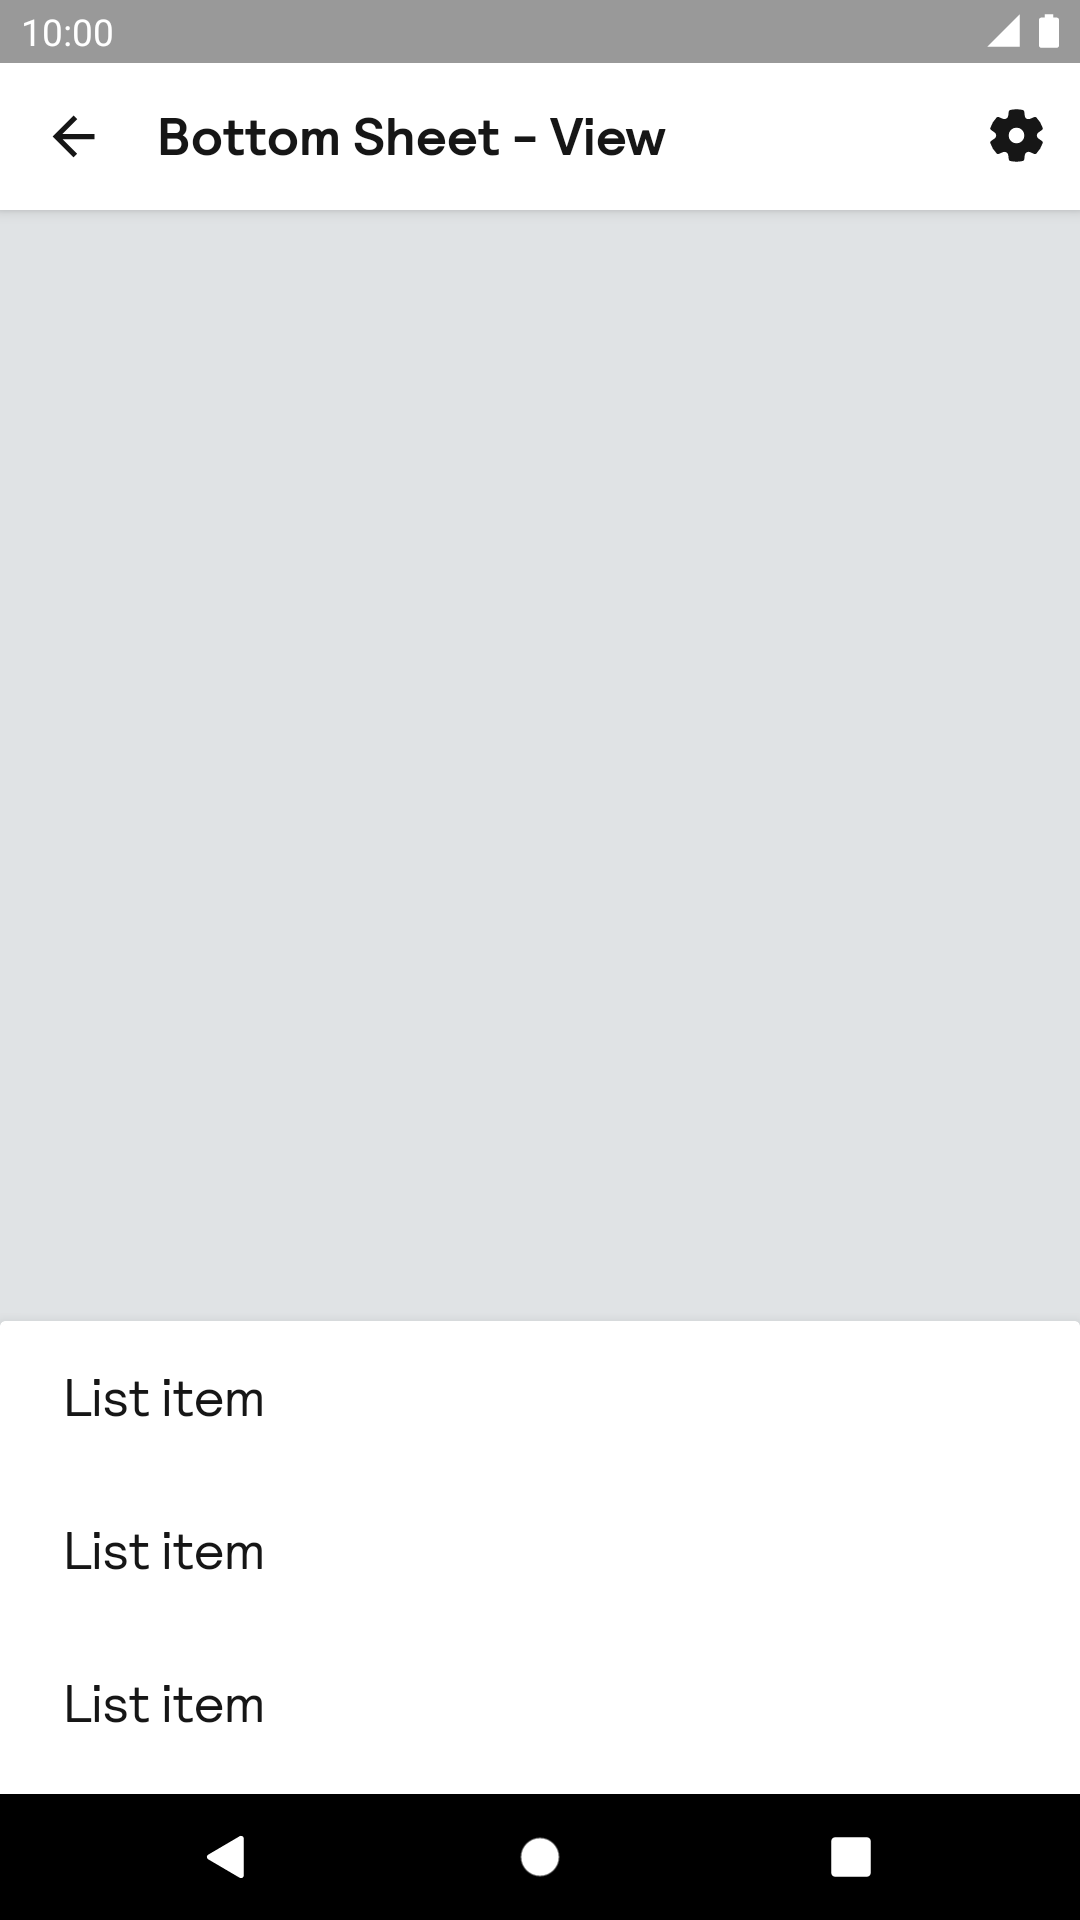
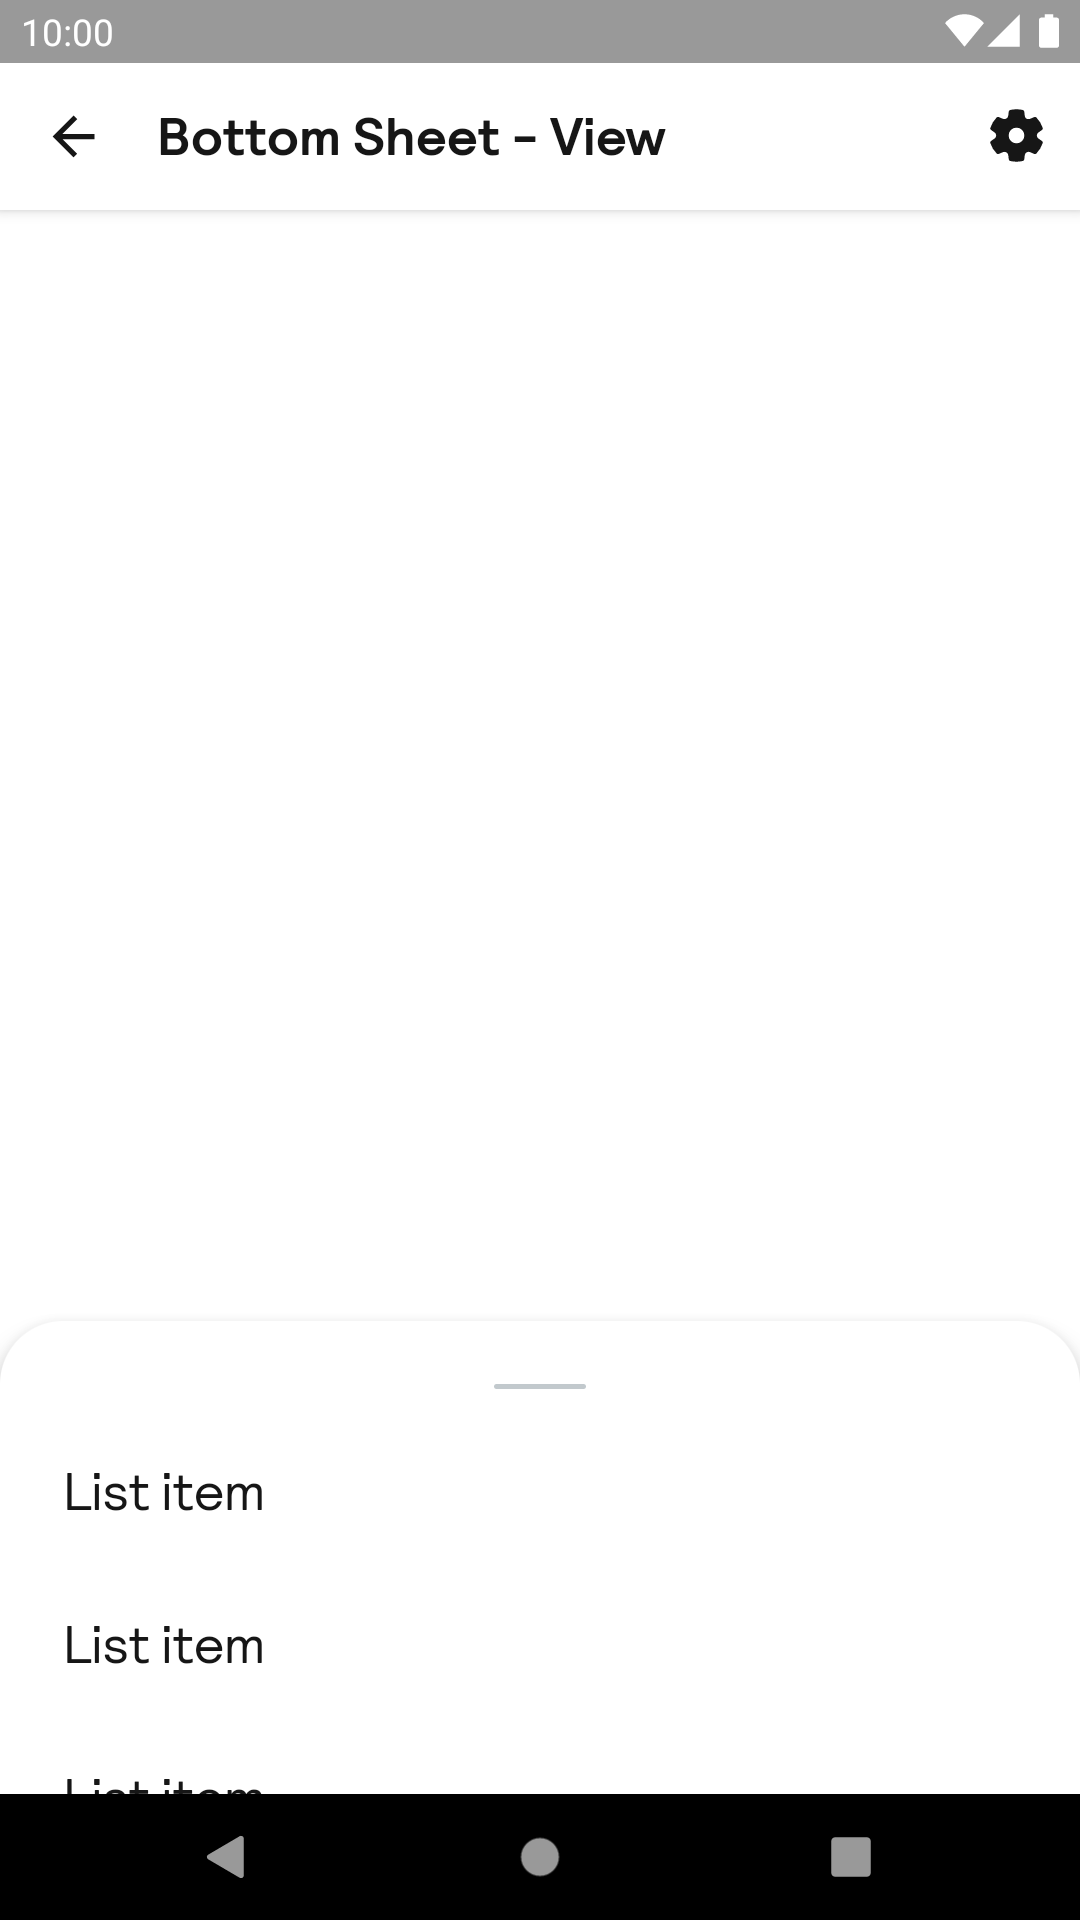
KOA-5672 Update bottom sheet style

diff --git a/app/src/androidTest/java/net/skyscanner/backpack/bottomsheet/BpkBottomSheetTest.kt b/app/src/androidTest/java/net/skyscanner/backpack/bottomsheet/BpkBottomSheetTest.kt
@@ -18,36 +18,42 @@
 
 package net.skyscanner.backpack.bottomsheet
 
+import android.view.View
 import android.widget.FrameLayout
+import androidx.appcompat.app.AppCompatActivity
 import androidx.appcompat.content.res.AppCompatResources
 import androidx.coordinatorlayout.widget.CoordinatorLayout
 import androidx.coordinatorlayout.widget.CoordinatorLayout.LayoutParams
+import androidx.test.espresso.Espresso
+import androidx.test.espresso.IdlingRegistry
+import androidx.test.espresso.IdlingResource
+import androidx.test.espresso.IdlingResource.ResourceCallback
+import androidx.test.espresso.matcher.ViewMatchers.assertThat
+import androidx.test.espresso.matcher.ViewMatchers.withId
+import androidx.test.ext.junit.rules.activityScenarioRule
 import androidx.test.ext.junit.runners.AndroidJUnit4
+import androidx.test.platform.app.InstrumentationRegistry
+import com.google.android.material.bottomsheet.BottomSheetBehavior
+import com.google.android.material.bottomsheet.BottomSheetBehavior.BottomSheetCallback
+import com.google.android.material.bottomsheet.BottomSheetBehavior.STATE_EXPANDED
 import net.skyscanner.backpack.BpkSnapshotTest
+import net.skyscanner.backpack.BpkTestVariant
 import net.skyscanner.backpack.demo.R
+import org.hamcrest.CoreMatchers.`is`
+import org.hamcrest.Matchers.greaterThanOrEqualTo
+import org.hamcrest.Matchers.lessThanOrEqualTo
 import org.junit.Before
+import org.junit.Rule
 import org.junit.Test
 import org.junit.runner.RunWith
 
 @RunWith(AndroidJUnit4::class)
 class BpkBottomSheetTest : BpkSnapshotTest() {
 
-  private val root = CoordinatorLayout(testContext)
+  @get:Rule
+  val rule = activityScenarioRule<AppCompatActivity>()
 
-  init {
-    val frameLayout = FrameLayout(root.context)
-    frameLayout.background = AppCompatResources.getDrawable(frameLayout.context, R.color.bpkSurfaceHighlight)
-    frameLayout.layoutParams = LayoutParams(LayoutParams.MATCH_PARENT, LayoutParams.MATCH_PARENT)
-    root.addView(frameLayout)
-
-    val bottomSheet = BpkBottomSheet(frameLayout.context)
-    val bottomSheetParams = LayoutParams(LayoutParams.MATCH_PARENT, LayoutParams.MATCH_PARENT)
-    val bottomSheetBehaviour = BpkBottomSheetBehaviour<BpkBottomSheet>()
-    bottomSheetBehaviour.peekHeight = bottomSheet.resources.getDimensionPixelSize(R.dimen.bpkSpacingXxl)
-    bottomSheetParams.behavior = bottomSheetBehaviour
-    bottomSheet.layoutParams = bottomSheetParams
-    root.addView(bottomSheet)
-  }
+  private lateinit var bottomSheetBehaviour: BpkBottomSheetBehaviour<BpkBottomSheet>
 
   @Before
   fun setup() {
@@ -56,6 +62,91 @@ class BpkBottomSheetTest : BpkSnapshotTest() {
 
   @Test
   fun default() {
-    snap(root)
+    snap(setupBottomSheet())
+  }
+
+  @Test
+  fun expanded() {
+    assumeVariant(BpkTestVariant.Default)
+    val asyncScreenshot = prepareForAsyncTest()
+
+    rule.scenario.onActivity { activity ->
+      val root = setupBottomSheet()
+      activity.setContentView(root)
+      root.post {
+        bottomSheetBehaviour.state = STATE_EXPANDED
+      }
+    }
+    val callback = Callback(bottomSheetBehaviour)
+    IdlingRegistry.getInstance().register(callback)
+
+    InstrumentationRegistry.getInstrumentation().waitForIdleSync()
+    Espresso.onView(withId(TEST_ID)).check { view, _ ->
+      rule.scenario.onActivity {
+        asyncScreenshot.record(view)
+      }
+    }
+    IdlingRegistry.getInstance().unregister(callback)
+  }
+
+  private fun setupBottomSheet(): View {
+    val root = CoordinatorLayout(testContext).apply { id = TEST_ID }
+    val frameLayout = FrameLayout(root.context)
+    frameLayout.background = AppCompatResources.getDrawable(frameLayout.context, R.color.bpkCanvasContrast)
+    frameLayout.layoutParams = LayoutParams(LayoutParams.MATCH_PARENT, LayoutParams.MATCH_PARENT)
+    root.addView(frameLayout)
+
+    val bottomSheet = BpkBottomSheet(frameLayout.context)
+    val bottomSheetParams = LayoutParams(LayoutParams.MATCH_PARENT, LayoutParams.MATCH_PARENT)
+    bottomSheetBehaviour = BpkBottomSheetBehaviour(root.context)
+    bottomSheetBehaviour.peekHeight = bottomSheet.resources.getDimensionPixelSize(R.dimen.bpkSpacingXxl)
+    bottomSheetParams.behavior = bottomSheetBehaviour
+    bottomSheet.layoutParams = bottomSheetParams
+    root.addView(bottomSheet)
+
+    return root
+  }
+
+  class Callback(behavior: BottomSheetBehavior<*>) : BottomSheetCallback(), IdlingResource {
+    private var isIdleNow: Boolean
+
+    override fun isIdleNow(): Boolean {
+      return isIdleNow
+    }
+
+    private var resourceCallback: ResourceCallback? = null
+
+    init {
+      behavior.addBottomSheetCallback(this)
+      val state = behavior.state
+      isIdleNow = isIdleState(state)
+    }
+
+    override fun onStateChanged(bottomSheet: View, @BottomSheetBehavior.State newState: Int) {
+      val wasIdle = isIdleNow
+      isIdleNow = isIdleState(newState)
+      if (!wasIdle && isIdleNow && resourceCallback != null) {
+        resourceCallback!!.onTransitionToIdle()
+      }
+    }
+
+    override fun onSlide(bottomSheet: View, slideOffset: Float) {
+      assertThat(slideOffset, `is`(greaterThanOrEqualTo(-1f)))
+      assertThat(slideOffset, `is`(lessThanOrEqualTo(1f)))
+    }
+
+    override fun getName(): String {
+      return Callback::class.java.simpleName
+    }
+
+    override fun registerIdleTransitionCallback(callback: ResourceCallback?) {
+      resourceCallback = callback
+    }
+
+    private fun isIdleState(state: Int): Boolean {
+      return (state != BottomSheetBehavior.STATE_DRAGGING && state != BottomSheetBehavior.STATE_SETTLING)
+    }
   }
 }
+
+private val TEST_ID = 123

diff --git a/Backpack/src/main/java/net/skyscanner/backpack/bottomsheet/BpkBottomSheetBehaviour.kt b/Backpack/src/main/java/net/skyscanner/backpack/bottomsheet/BpkBottomSheetBehaviour.kt
@@ -19,15 +19,50 @@
 package net.skyscanner.backpack.bottomsheet
 
 import android.content.Context
+import android.graphics.drawable.GradientDrawable
+import android.graphics.drawable.LayerDrawable
 import android.util.AttributeSet
 import android.view.View
+import android.view.ViewGroup
+import androidx.core.content.res.ResourcesCompat
 import com.google.android.material.bottomsheet.BottomSheetBehavior
+import net.skyscanner.backpack.R
 
-class BpkBottomSheetBehaviour<V : View> : BottomSheetBehavior<V> {
+class BpkBottomSheetBehaviour<V : View>(context: Context, attrs: AttributeSet? = null) :
+  BottomSheetBehavior<V>(context, attrs) {
 
-  @Suppress("unused")
-  constructor() : super()
+  private val maxRadius: Float
+  private val background: LayerDrawable
 
-  @Suppress("unused")
-  constructor(context: Context, attrs: AttributeSet) : super(context, attrs)
+  init {
+    maxRadius = context.resources.getDimension(R.dimen.bpkBorderRadiusLg)
+    background =
+      ResourcesCompat.getDrawable(context.resources, R.drawable.bpk_bottom_sheet_background, null) as LayerDrawable
+
+    addBottomSheetCallback(object : BottomSheetCallback() {
+      override fun onStateChanged(bottomSheet: View, newState: Int) {
+        bottomSheet.background = background
+        (bottomSheet as? ViewGroup)?.apply {
+          clipToPadding = false
+          clipChildren = false
+        }
+        when (newState) {
+          STATE_COLLAPSED -> updateBackground(0f)
+          STATE_EXPANDED -> updateBackground(1f)
+          else -> {}
+        }
+      }
+
+      override fun onSlide(bottomSheet: View, slideOffset: Float) {
+        updateBackground(slideOffset)
+      }
+    })
+  }
+
+  private fun updateBackground(slideOffset: Float) {
+    val radius = maxRadius * (1 - slideOffset)
+    val radii = floatArrayOf(radius, radius, radius, radius, 0f, 0f, 0f, 0f)
+    (background.findDrawableByLayerId(R.id.bottomSheetSurface) as GradientDrawable).cornerRadii = radii
+    background.findDrawableByLayerId(R.id.bottomSheetHandle).alpha = ((1 - slideOffset) * 255).toInt()
+  }
 }

diff --git a/Backpack/src/main/java/net/skyscanner/backpack/bottomsheet/BpkBottomSheet.kt b/Backpack/src/main/java/net/skyscanner/backpack/bottomsheet/BpkBottomSheet.kt
@@ -31,5 +31,6 @@ open class BpkBottomSheet @JvmOverloads constructor(
 
   init {
     cardElevation = resources.getDimension(R.dimen.bpkElevationLg)
+    setBackgroundResource(R.drawable.bpk_bottom_sheet_background)
   }
 }

diff --git a/CONTRIBUTING.md b/CONTRIBUTING.md
@@ -118,6 +118,18 @@ To test changes use
 
 If the check fails you either need to fix the issue if a change was unintended or record script above instead to update the snapshots.
 
+### Running individual test classes
+
+While you're creating your snapshot tests or are debugging an issue it may be helpful to run an individual test class. You can do that with the following command:
+
+```
+./gradlew :app:recordOssDebugAndroidTestScreenshotTest -Pandroid.testInstrumentationRunnerArguments.variant=default -Pandroid.testInstrumentationRunnerArguments.class=net.skyscanner.backpack.package.YourClassTest
+```
+
+You can replace the `variant` variable with `dm`, `rtl` or `themed` depending on what you're trying to test.
+
+> Note: This will delete any other snapshots, so please run the full snapshot test suite afterwards or use the CI method below.
+
 ### Using CI for generating snapshot
 
 Alternatively, you can use GitHub Actions CI to generate the snapshots.

diff --git a/docs/view/BottomSheet/README.md b/docs/view/BottomSheet/README.md
@@ -45,6 +45,7 @@ Example of a Bottom Sheet in XML
     <!-- Bottom sheet content -->
 
   </net.skyscanner.backpack.bottomsheet.BpkBottomSheet>
+</androidx.coordinatorlayout.widget.CoordinatorLayout>
 ```
 
 Example of a Bottom Sheet in Kotlin
@@ -63,7 +64,7 @@ import androidx.coordinatorlayout.widget.CoordinatorLayout.*
 
   val bottomSheet = BpkBottomSheet(context)
   val bottomSheetParams = LayoutParams(LayoutParams.MATCH_PARENT, LayoutParams.MATCH_PARENT)
-  val bottomSheetBehaviour = BpkBottomSheetBehaviour<BpkBottomSheet>()
+  val bottomSheetBehaviour = BpkBottomSheetBehaviour<BpkBottomSheet>(context)
   bottomSheetBehaviour.peekHeight = bottomSheet.resources.getDimensionPixelSize(R.dimen.bpkSpacingXxl)
   bottomSheetParams.behavior = bottomSheetBehaviour
   bottomSheet.layoutParams = bottomSheetParams
